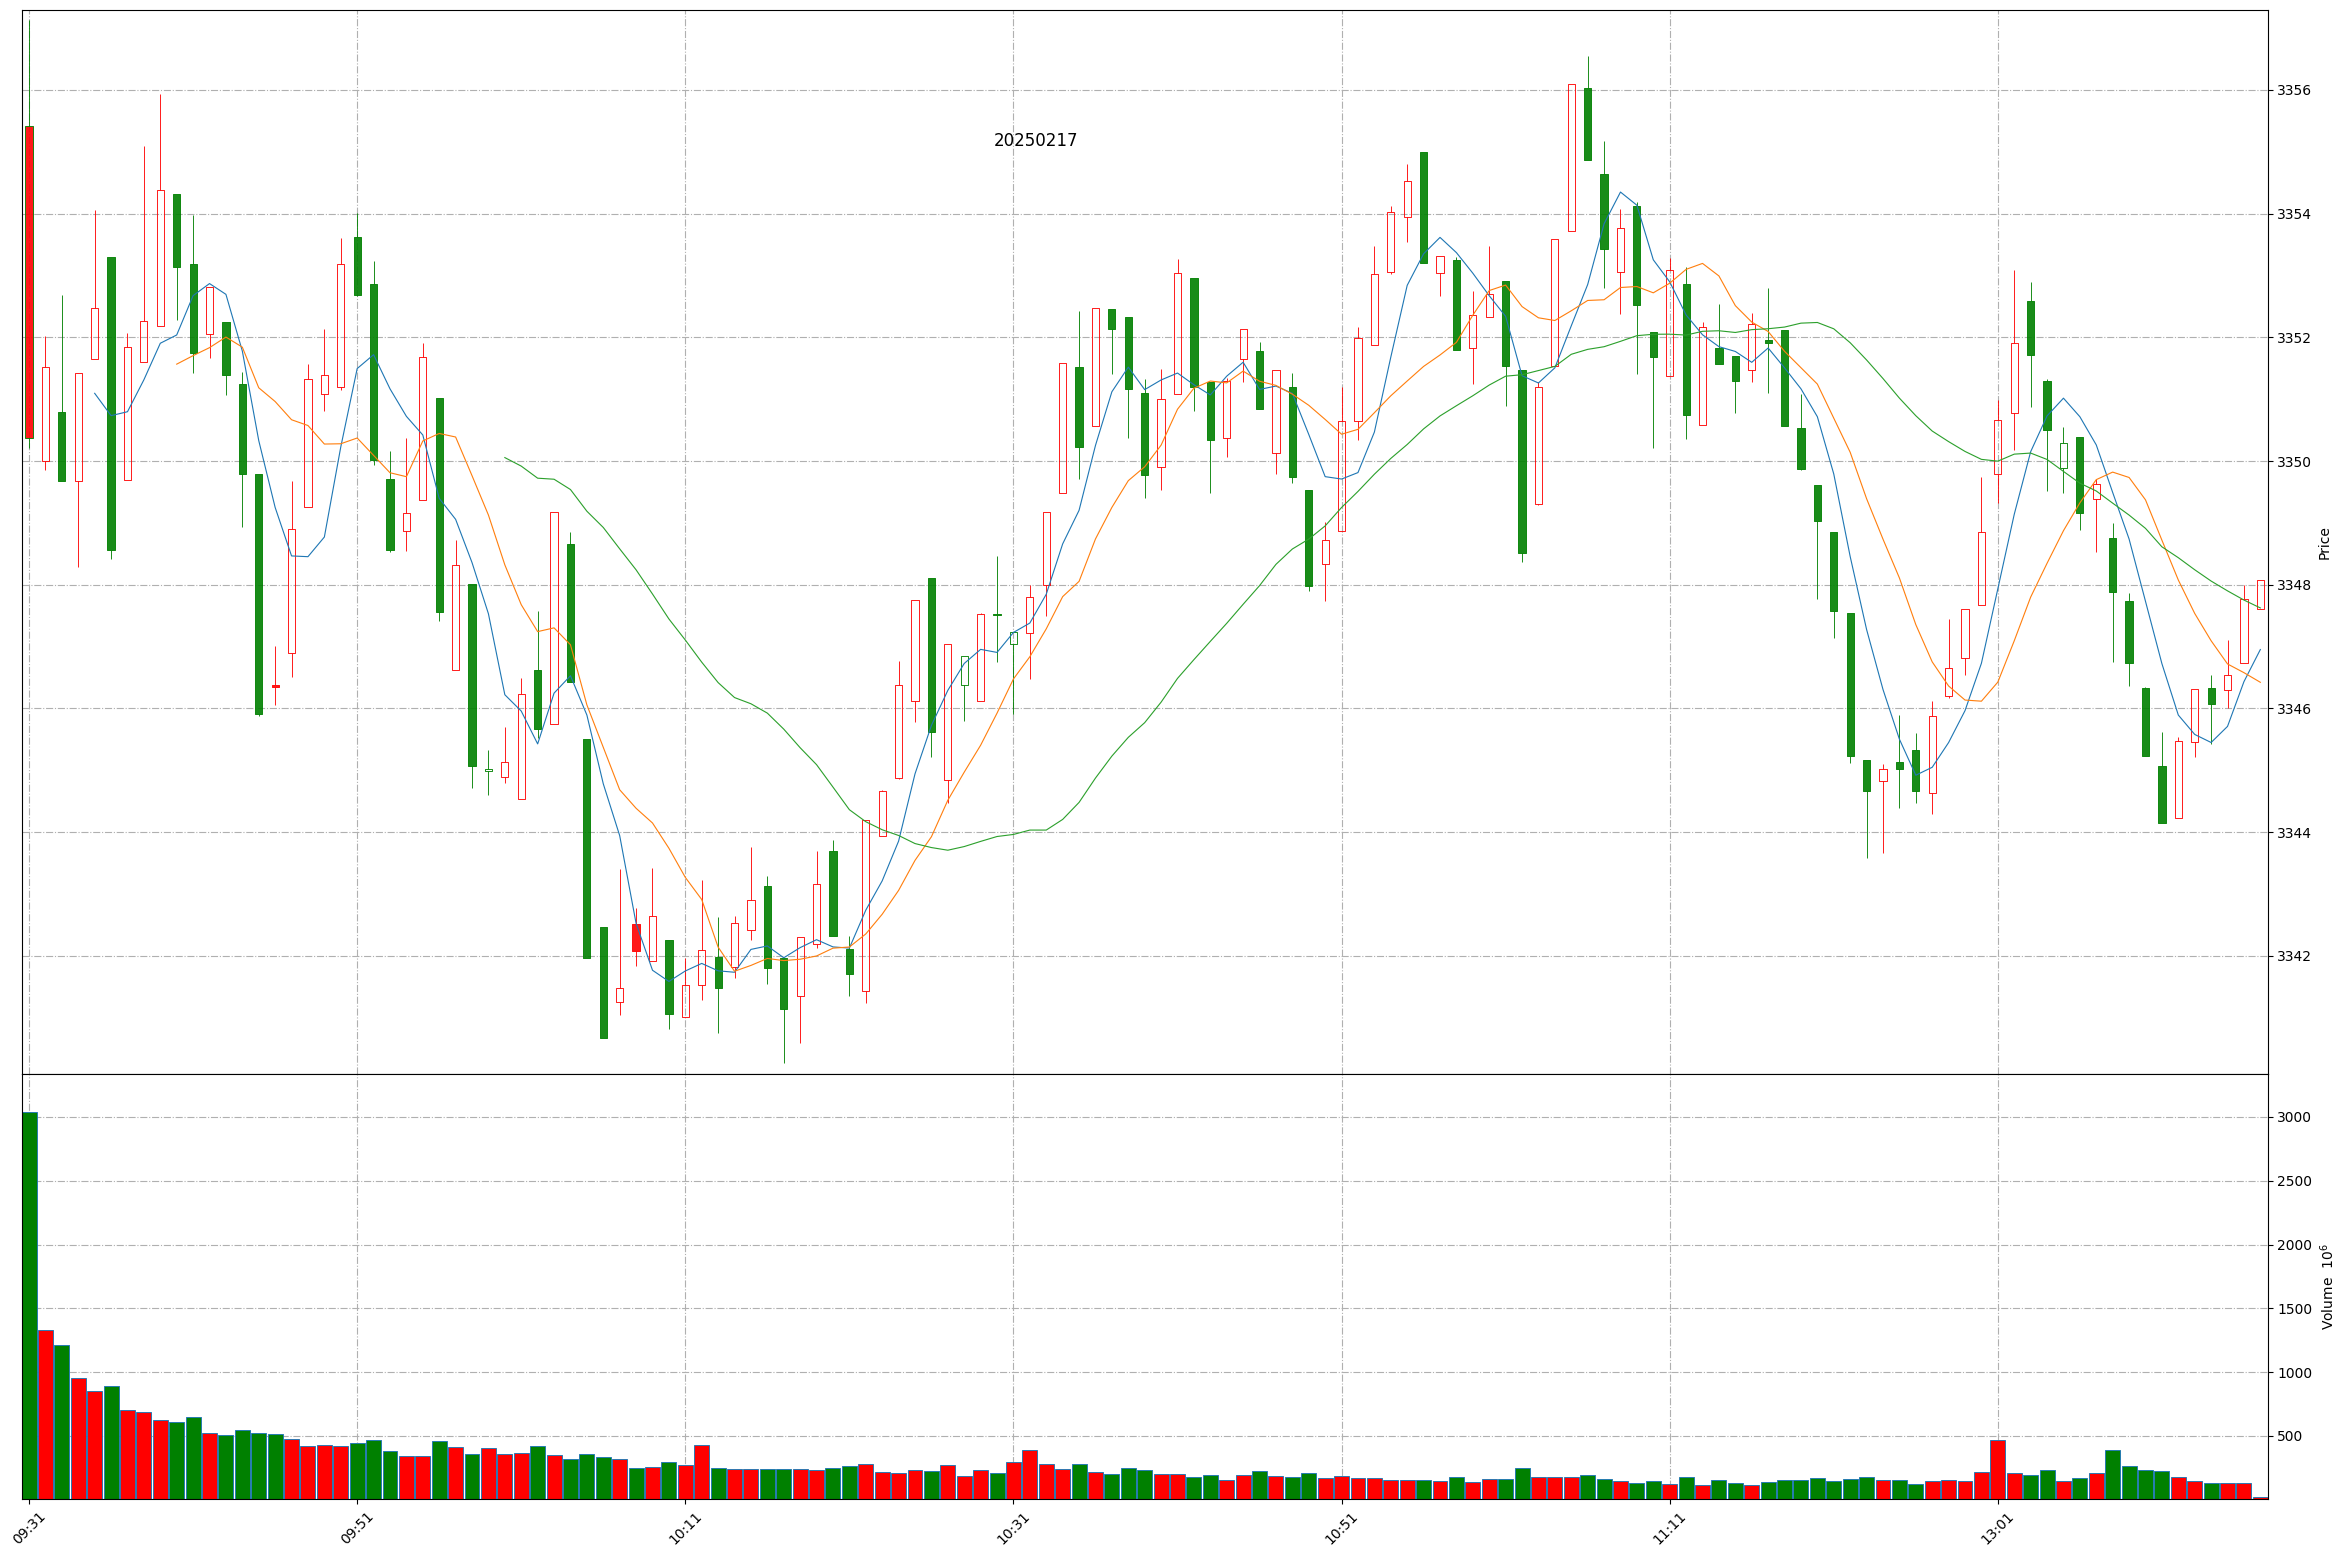
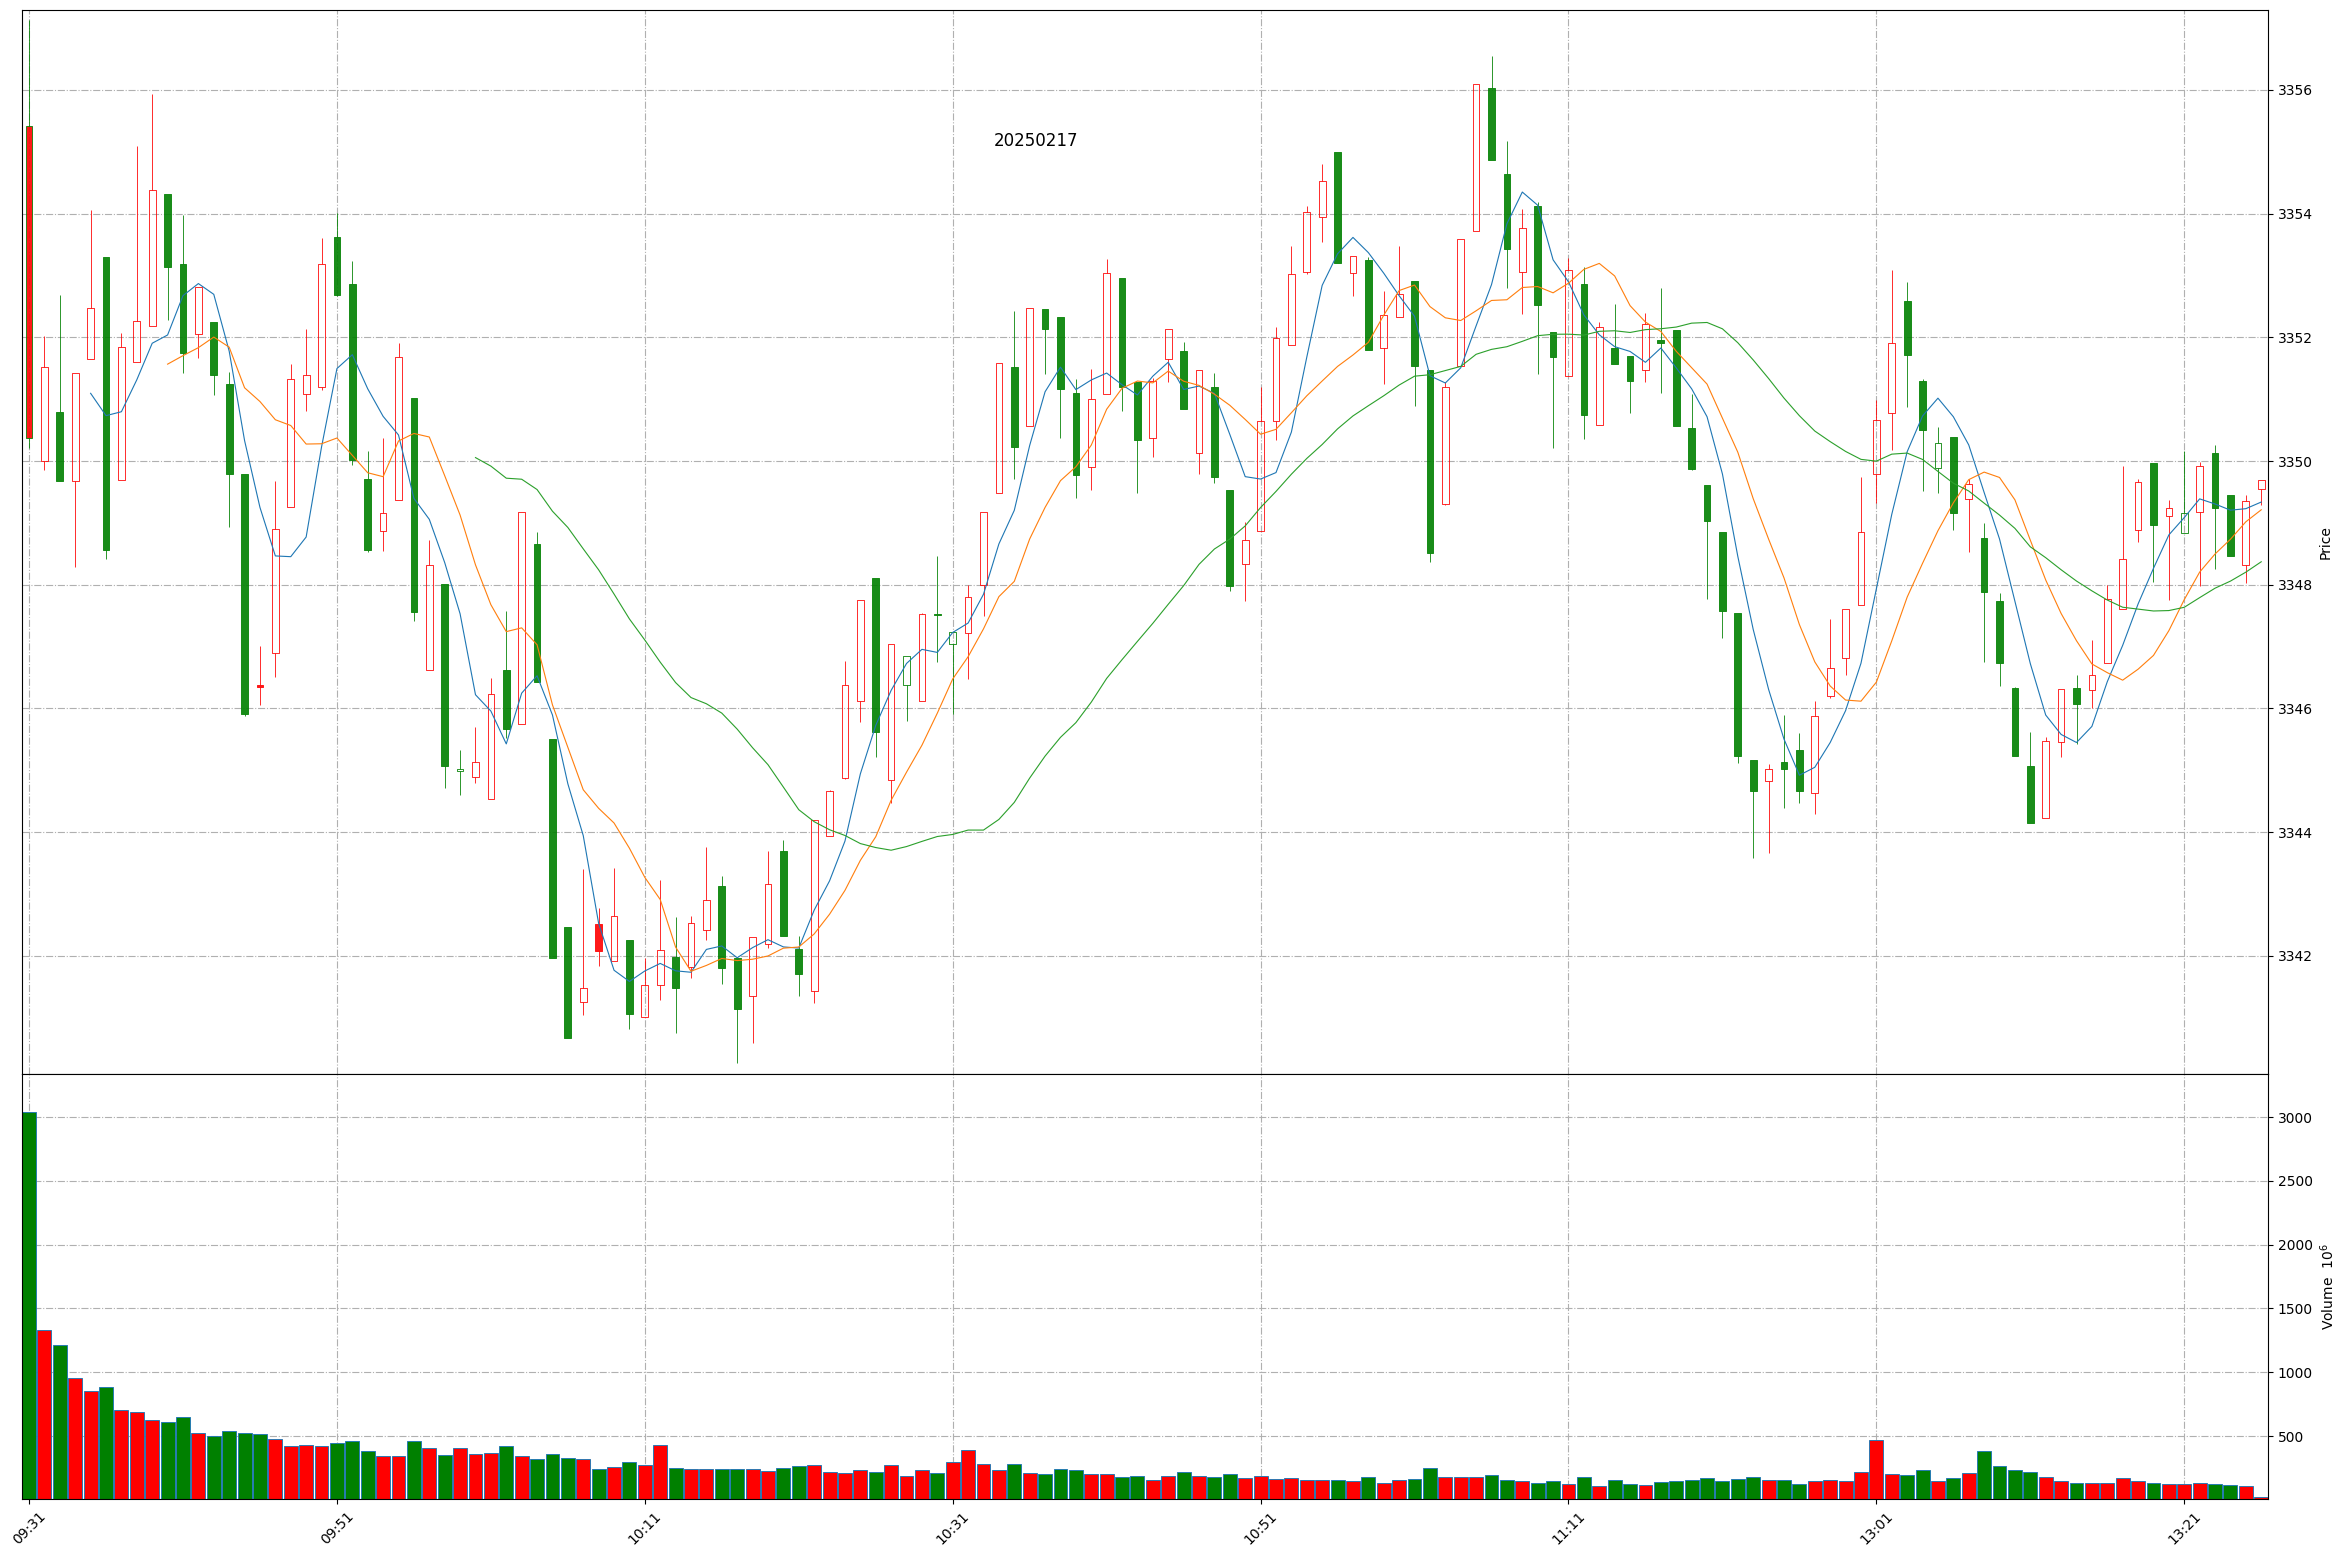
Github action update at 2025-02-17 13:25:36.

diff --git a/README.md b/README.md
@@ -1,11 +1,11 @@
 
 # Daily-A-share-market-quotes 每日 A 股指数（5min 更新）- 20250217
 
-### 上证指数 20250217 13:16
+### 上证指数 20250217 13:25
 ![](./fig/2025/2/20250217-sh000001.png)
 
-### 深证成指 20250217 13:16
+### 深证成指 20250217 13:25
 ![](./fig/2025/2/20250217-sz399001.png)
 
-### 北证50 20250217 13:16
+### 北证50 20250217 13:25
 ![](./fig/2025/2/20250217-bj899050.png)
